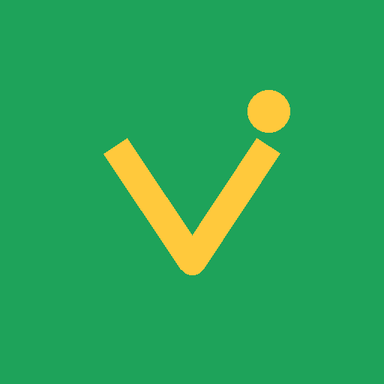
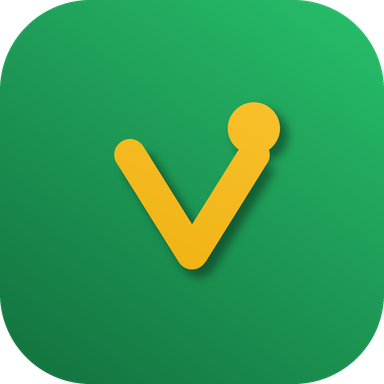
Add files via upload

diff --git a/index.html b/index.html
@@ -13,6 +13,8 @@
 <link rel="icon" type="image/png" sizes="192x192" href="/icon-192.png">
 <link rel="apple-touch-icon" href="/icon-192.png">
 <link rel="preload" href="/icon-192.png" as="image">
+<link rel="preconnect" href="https://rgcclordmqjmwuzrrfbd.supabase.co">
+<link rel="preconnect" href="https://cdn.jsdelivr.net" crossorigin>
 <title>Vendaí — compre, venda e negocie</title>
 <script src="https://cdn.jsdelivr.net/npm/@supabase/supabase-js@2"></script>
 <style>
@@ -256,6 +258,17 @@
     object-position:center;
     display:block;
   }
+  .heroTileIcon{
+    width:100%; height:100%;
+    display:flex; align-items:center; justify-content:center;
+  }
+  .heroTileIcon svg{ width:44%; height:44%; }
+  .heroTile.t1 .heroTileIcon{ background:linear-gradient(135deg,#2CC773,#0F6B3B); }
+  .heroTile.t2 .heroTileIcon{ background:linear-gradient(135deg,#FFD666,#E8A800); }
+  .heroTile.t3 .heroTileIcon{ background:linear-gradient(135deg,#17854A,#0B4A2A); }
+  .heroTile.t4 .heroTileIcon{ background:linear-gradient(135deg,#1EA35A,#12703E); }
+  .heroTile.t1 .heroTileIcon svg, .heroTile.t3 .heroTileIcon svg, .heroTile.t4 .heroTileIcon svg{ stroke:#fff; }
+  .heroTile.t2 .heroTileIcon svg{ stroke:#5C4200; }
   .heroTile span{
     position:absolute;
     left:6px;
@@ -542,7 +555,8 @@
     cursor:pointer;
   }
   nav button.active{ color: var(--green); font-weight:700; }
-  nav button .ic{ font-size:19px; }
+  nav button .ic{ width:21px; height:21px; display:inline-flex; }
+  nav button .ic svg{ width:100%; height:100%; display:block; }
 
   /* Overlays */
   .overlay{
@@ -1061,13 +1075,13 @@
     backdrop-filter:saturate(150%) blur(12px);
   }
   nav button{padding:5px 4px 3px;min-height:49px;font-size:9.5px;font-weight:650;gap:2px;border-radius:14px;position:relative;}
-  nav button .ic{font-size:19px;line-height:1;}
+  nav button .ic{width:21px;height:21px;line-height:1;}
   nav button.active{color:var(--green-dark);background:var(--green-soft);}
   nav button:nth-child(3){
-    margin-top:-22px;min-height:62px;max-width:74px;background:var(--green);color:#fff !important;
-    border:5px solid #fff;border-radius:22px;box-shadow:0 9px 20px rgba(24,163,91,.26);font-weight:800;
+    margin-top:-22px;min-height:62px;max-width:74px;background:linear-gradient(135deg,#27BF6B,var(--green-dark));color:#fff !important;
+    border:5px solid #fff;border-radius:22px;box-shadow:0 9px 20px rgba(24,163,91,.32);font-weight:800;
   }
-  nav button:nth-child(3) .ic{font-size:24px;}
+  nav button:nth-child(3) .ic{width:25px;height:25px;}
   .msgBadge{top:1px !important;right:18% !important;}
 
   .sheet{border-radius:26px 26px 0 0;padding:16px 17px calc(22px + env(safe-area-inset-bottom));box-shadow:0 -20px 50px rgba(8,35,22,.12);}
@@ -1144,16 +1158,26 @@
     <div class="topRow">
       <div class="logoGroup">
         <svg class="logoMark" width="34" height="34" viewBox="0 0 40 40" aria-label="Vendaí">
-          <rect x="2" y="2" width="36" height="36" rx="12" fill="var(--green)"/>
-          <path d="M13 16 L20 27 L27 16" stroke="var(--yellow)" stroke-width="3.2" stroke-linecap="round" stroke-linejoin="round" fill="none"/>
-          <circle cx="27" cy="13" r="3" fill="var(--yellow)"/>
+          <defs>
+            <linearGradient id="logoBg" x1="4" y1="2" x2="36" y2="38" gradientUnits="userSpaceOnUse">
+              <stop offset="0" stop-color="#27BF6B"/>
+              <stop offset="1" stop-color="#12703E"/>
+            </linearGradient>
+            <linearGradient id="logoMarkGrad" x1="12" y1="13" x2="28" y2="27" gradientUnits="userSpaceOnUse">
+              <stop offset="0" stop-color="#FFC93C"/>
+              <stop offset="1" stop-color="#E8A800"/>
+            </linearGradient>
+          </defs>
+          <rect x="2" y="2" width="36" height="36" rx="12" fill="url(#logoBg)"/>
+          <path d="M12.5 15.5 L20 27.5 L27.5 15.5" stroke="url(#logoMarkGrad)" stroke-width="3.4" stroke-linecap="round" stroke-linejoin="round" fill="none"/>
+          <circle cx="27.5" cy="12.3" r="3.1" fill="url(#logoMarkGrad)"/>
         </svg>
         <div class="logo">Vend<em>aí</em></div>
       </div>
-      <button class="location" onclick="openLocationSheet()" id="locationBtn">📍 Toda a região ▾</button>
+      <button class="location" onclick="openLocationSheet()" id="locationBtn"><svg width="12" height="12" viewBox="0 0 24 24" fill="none" stroke="currentColor" stroke-width="2.1" stroke-linecap="round" stroke-linejoin="round" style="vertical-align:-1px;margin-right:2px;"><path d="M12 21s7-6.4 7-11.6A7 7 0 0 0 5 9.4C5 14.6 12 21 12 21Z"/><circle cx="12" cy="9.4" r="2.4"/></svg> Toda a região <svg width="9" height="9" viewBox="0 0 24 24" fill="none" stroke="currentColor" stroke-width="2.6" stroke-linecap="round" stroke-linejoin="round" style="vertical-align:1px;margin-left:1px;"><polyline points="6 9 12 15 18 9"/></svg></button>
     </div>
     <div class="searchBar">
-      <span>⌕</span>
+      <span style="display:inline-flex;color:var(--ink-soft);"><svg width="17" height="17" viewBox="0 0 24 24" fill="none" stroke="currentColor" stroke-width="2.1" stroke-linecap="round"><circle cx="10.8" cy="10.8" r="6.8"/><line x1="20" y1="20" x2="15.6" y2="15.6"/></svg></span>
       <input id="searchInput" type="text" placeholder="Buscar celular, carro, móveis..." autocomplete="off">
     </div>
   </header>
@@ -1164,27 +1188,27 @@
       <div class="installTitle">Leve o Vendaí no celular</div>
       <div class="installSub">Android • app leve • acesso rápido</div>
     </div>
-    <button class="installBtn" type="button" onclick="instalarVendaI()">⬇ Instalar app</button>
+    <button class="installBtn" type="button" onclick="instalarVendaI()"><svg width="13" height="13" viewBox="0 0 24 24" fill="none" stroke="currentColor" stroke-width="2.3" stroke-linecap="round" stroke-linejoin="round" style="vertical-align:-2px;margin-right:4px;"><path d="M12 4v11"/><polyline points="7.5 11 12 15.5 16.5 11"/><line x1="5" y1="20" x2="19" y2="20"/></svg>Instalar app</button>
   </section>
   <div class="apkNote" id="apkNote">Se o Android pedir autorização, permita instalar apps deste navegador para concluir a instalação.</div>
 
   <section class="heroTop" aria-label="Comprar, vender e negociar">
     <div class="heroInner">
       <div class="heroCopy">
-        <div class="heroEyebrow">✨ Marketplace perto de você</div>
+        <div class="heroEyebrow"><svg width="11" height="11" viewBox="0 0 24 24" fill="currentColor" style="vertical-align:-1px;margin-right:1px;"><path d="M12 2 14 9 21 12 14 15 12 22 10 15 3 12 10 9Z"/></svg> Marketplace perto de você</div>
         <h1 class="heroTitle">Compre bem.<br><em>Venda rápido.</em></h1>
         <div class="heroText">Celular, carro, casa, eletrônicos e muito mais. Anuncie grátis e negocie direto pelo chat.</div>
         <div class="heroActions">
-          <button class="heroPrimary" onclick="openPostSheet()">＋ Anunciar grátis</button>
+          <button class="heroPrimary" onclick="openPostSheet()"><svg width="11" height="11" viewBox="0 0 24 24" fill="none" stroke="currentColor" stroke-width="2.6" stroke-linecap="round" style="vertical-align:-1px;margin-right:3px;"><line x1="12" y1="5" x2="12" y2="19"/><line x1="5" y1="12" x2="19" y2="12"/></svg>Anunciar grátis</button>
           <button class="heroSecondary" onclick="document.getElementById('grid').scrollIntoView({behavior:'smooth'})">Explorar</button>
         </div>
       </div>
       <div class="heroVisual" aria-hidden="true">
         <div class="heroMosaic">
-          <div class="heroTile t1" data-icon="📱"><img loading="eager" fetchpriority="low" decoding="async" src="https://images.unsplash.com/photo-1511707171634-5f897ff02aa9?auto=format&fit=crop&w=280&q=58" alt="" onerror="this.style.display='none'"><span>Celular</span></div>
-          <div class="heroTile t2" data-icon="⌚"><img loading="eager" fetchpriority="low" decoding="async" src="https://images.unsplash.com/photo-1523275335684-37898b6baf30?auto=format&fit=crop&w=280&q=58" alt="" onerror="this.style.display='none'"><span>Relógio</span></div>
-          <div class="heroTile t3" data-icon="🚗"><img loading="lazy" decoding="async" src="https://images.unsplash.com/photo-1503376780353-7e6692767b70?auto=format&fit=crop&w=280&q=58" alt="" onerror="this.style.display='none'"><span>Carro</span></div>
-          <div class="heroTile t4" data-icon="🏠"><img loading="lazy" decoding="async" src="https://images.unsplash.com/photo-1484154218962-a197022b5858?auto=format&fit=crop&w=280&q=58" alt="" onerror="this.style.display='none'"><span>Casa</span></div>
+          <div class="heroTile t1"><div class="heroTileIcon" aria-hidden="true"><svg viewBox="0 0 24 24" fill="none" stroke-width="1.7" stroke-linecap="round" stroke-linejoin="round"><rect x="6.5" y="2.5" width="11" height="19" rx="2.4"/><line x1="10.3" y1="18.4" x2="13.7" y2="18.4"/></svg></div><span>Celular</span></div>
+          <div class="heroTile t2"><div class="heroTileIcon" aria-hidden="true"><svg viewBox="0 0 24 24" fill="none" stroke-width="1.7" stroke-linecap="round" stroke-linejoin="round"><rect x="7" y="7.3" width="10" height="9.4" rx="2.6"/><path d="M9.3 7.3V4.6a1 1 0 0 1 1-1h3.4a1 1 0 0 1 1 1v2.7"/><path d="M9.3 16.7v2.7a1 1 0 0 0 1 1h3.4a1 1 0 0 0 1-1v-2.7"/><line x1="12" y1="10.2" x2="12" y2="12.4"/><line x1="12" y1="12.4" x2="13.6" y2="13.4"/></svg></div><span>Relógio</span></div>
+          <div class="heroTile t3"><div class="heroTileIcon" aria-hidden="true"><svg viewBox="0 0 24 24" fill="none" stroke-width="1.7" stroke-linecap="round" stroke-linejoin="round"><path d="M3.5 15.5 5 10a2 2 0 0 1 1.9-1.4h10.2A2 2 0 0 1 19 10l1.5 5.5"/><rect x="2.8" y="15.5" width="18.4" height="4.3" rx="1.4"/><circle cx="7" cy="19.8" r="1.3"/><circle cx="17" cy="19.8" r="1.3"/></svg></div><span>Carro</span></div>
+          <div class="heroTile t4"><div class="heroTileIcon" aria-hidden="true"><svg viewBox="0 0 24 24" fill="none" stroke-width="1.7" stroke-linecap="round" stroke-linejoin="round"><path d="M3.3 11.6 12 4.2l8.7 7.4"/><path d="M5.6 10.3V19a1 1 0 0 0 1 1H17.4a1 1 0 0 0 1-1v-8.7"/><rect x="10.2" y="13.4" width="3.6" height="6.6"/></svg></div><span>Casa</span></div>
         </div>
       </div>
     </div>
@@ -1250,15 +1274,15 @@
   </main>
 
   <div class="fab">
-    <button onclick="openPostSheet()">＋ Anunciar</button>
+    <button onclick="openPostSheet()"><svg width="15" height="15" viewBox="0 0 24 24" fill="none" stroke="currentColor" stroke-width="2.6" stroke-linecap="round" style="vertical-align:-2px;margin-right:5px;"><line x1="12" y1="5" x2="12" y2="19"/><line x1="5" y1="12" x2="19" y2="12"/></svg>Anunciar</button>
   </div>
 
   <nav>
-    <button class="active"><span class="ic">🏠</span>Início</button>
-    <button onclick="openCategories()"><span class="ic">🗂</span>Categorias</button>
-    <button onclick="openPostSheet()" aria-label="Anunciar"><span class="ic">＋</span>Anunciar</button>
-    <button class="navMsgBtn" onclick="abrirConversas()"><span class="ic">💬</span><span class="msgBadge" id="msgBadge">0</span>Conversas</button>
-    <button onclick="openProfileSheet()"><span class="ic">👤</span>Perfil</button>
+    <button class="active"><span class="ic"><svg viewBox="0 0 24 24" fill="none" stroke="currentColor" stroke-width="1.9" stroke-linecap="round" stroke-linejoin="round"><path d="M3.5 11.2 12 4l8.5 7.2"/><path d="M5.8 9.9V19a1 1 0 0 0 1 1h3.4v-5.6h3.6V20h3.4a1 1 0 0 0 1-1V9.9"/></svg></span>Início</button>
+    <button onclick="openCategories()"><span class="ic"><svg viewBox="0 0 24 24" fill="none" stroke="currentColor" stroke-width="1.9" stroke-linecap="round" stroke-linejoin="round"><rect x="3.6" y="3.6" width="7" height="7" rx="1.7"/><rect x="13.4" y="3.6" width="7" height="7" rx="1.7"/><rect x="3.6" y="13.4" width="7" height="7" rx="1.7"/><rect x="13.4" y="13.4" width="7" height="7" rx="1.7"/></svg></span>Categorias</button>
+    <button onclick="openPostSheet()" aria-label="Anunciar"><span class="ic"><svg viewBox="0 0 24 24" fill="none" stroke="currentColor" stroke-width="2.3" stroke-linecap="round"><line x1="12" y1="5" x2="12" y2="19"/><line x1="5" y1="12" x2="19" y2="12"/></svg></span>Anunciar</button>
+    <button class="navMsgBtn" onclick="abrirConversas()"><span class="ic"><svg viewBox="0 0 24 24" fill="none" stroke="currentColor" stroke-width="1.9" stroke-linecap="round" stroke-linejoin="round"><path d="M4 5.8h16a1 1 0 0 1 1 1V15a1 1 0 0 1-1 1H9.2L5 19.6V16H4a1 1 0 0 1-1-1V6.8a1 1 0 0 1 1-1Z"/></svg></span><span class="msgBadge" id="msgBadge">0</span>Conversas</button>
+    <button onclick="openProfileSheet()"><span class="ic"><svg viewBox="0 0 24 24" fill="none" stroke="currentColor" stroke-width="1.9" stroke-linecap="round" stroke-linejoin="round"><circle cx="12" cy="8.3" r="3.5"/><path d="M4.7 20c1-3.7 4-5.7 7.3-5.7s6.3 2 7.3 5.7"/></svg></span>Perfil</button>
   </nav>
 
   <!-- Lightbox de fotos -->
